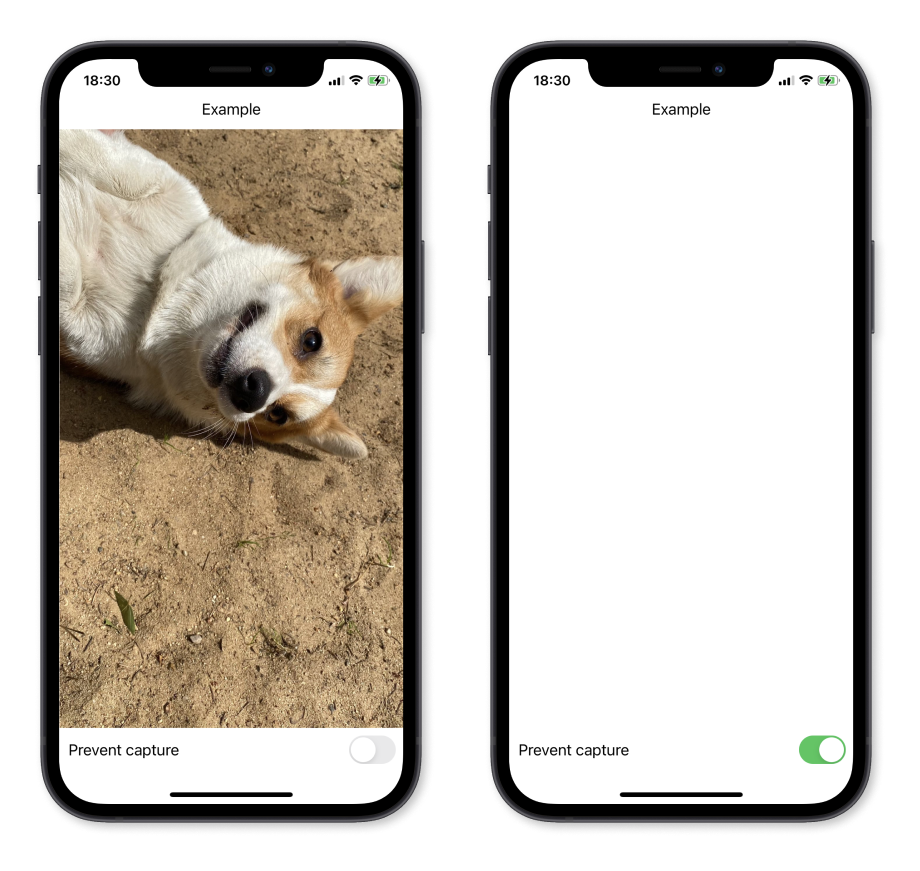
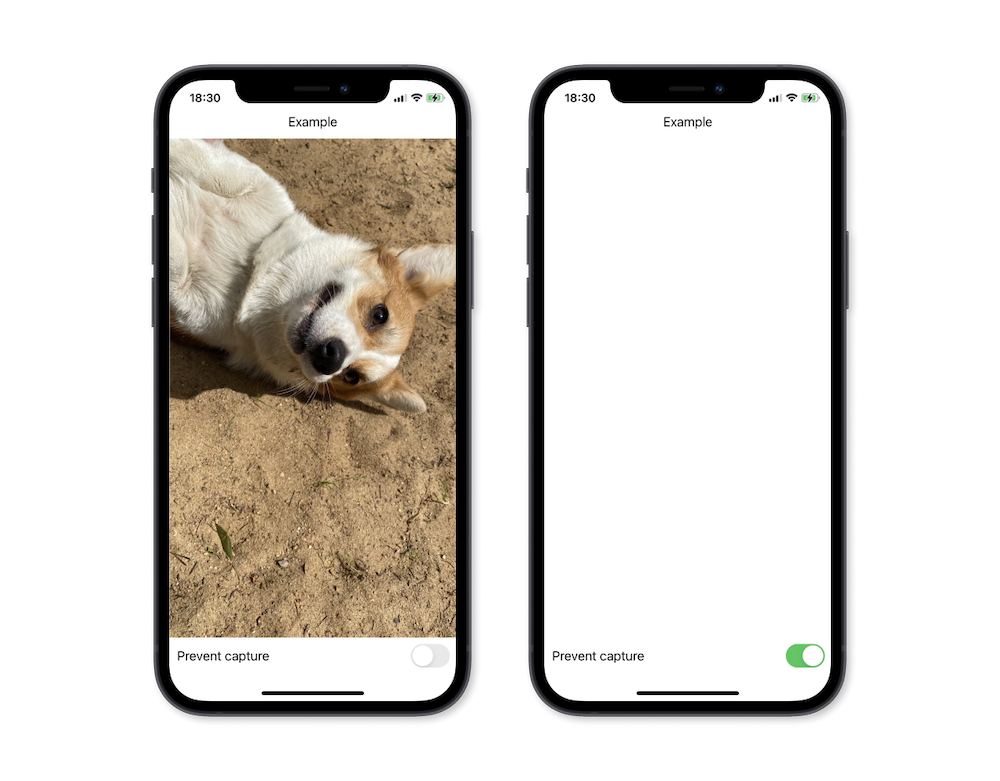
Update README

diff --git a/README.md b/README.md
@@ -6,7 +6,7 @@ Image view with DRM protection for SwiftUI and UIKit.
 
 This view can't be captured via iOS screenshot feature or screen recording.
 
-<img src="https://raw.githubusercontent.com/shvul/PrivateImage/main/Example/PrivateImageExample.png" width="460" height="435">
+<img src="https://raw.githubusercontent.com/shvul/PrivateImage/main/Example/PrivateImageExample.png">
 
 ## Usage
 
